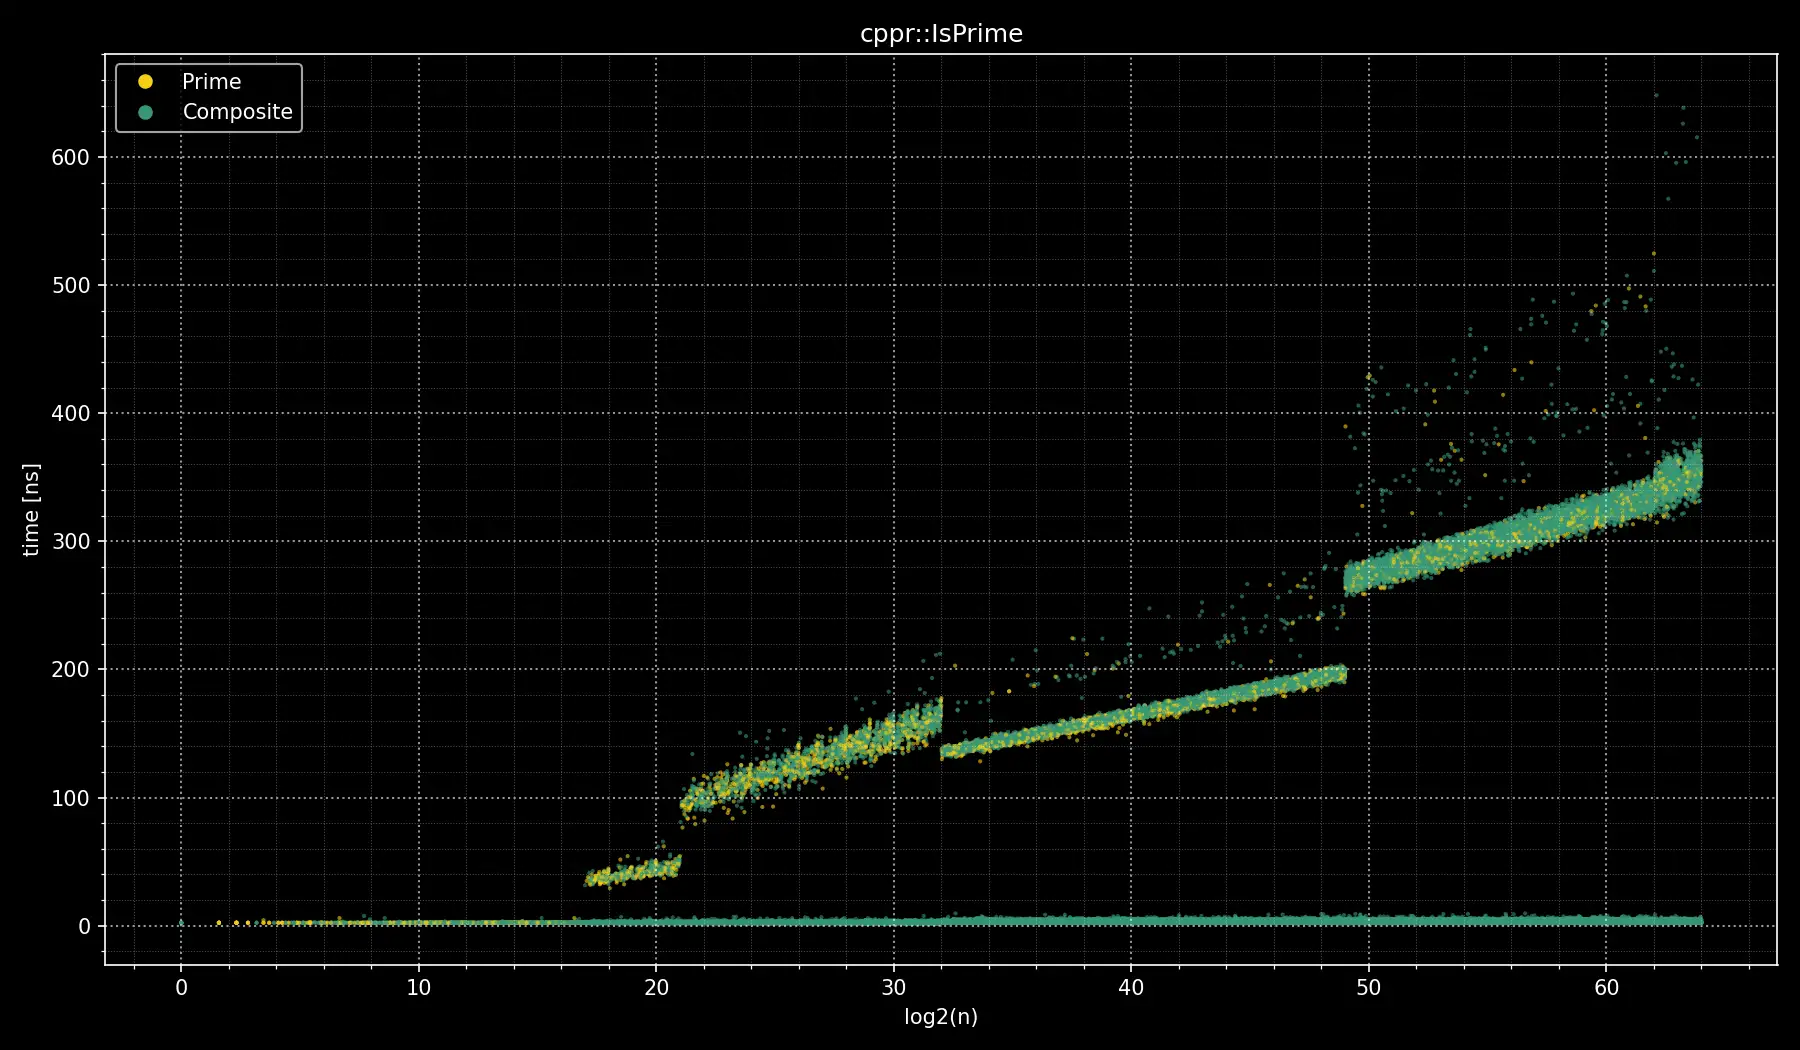
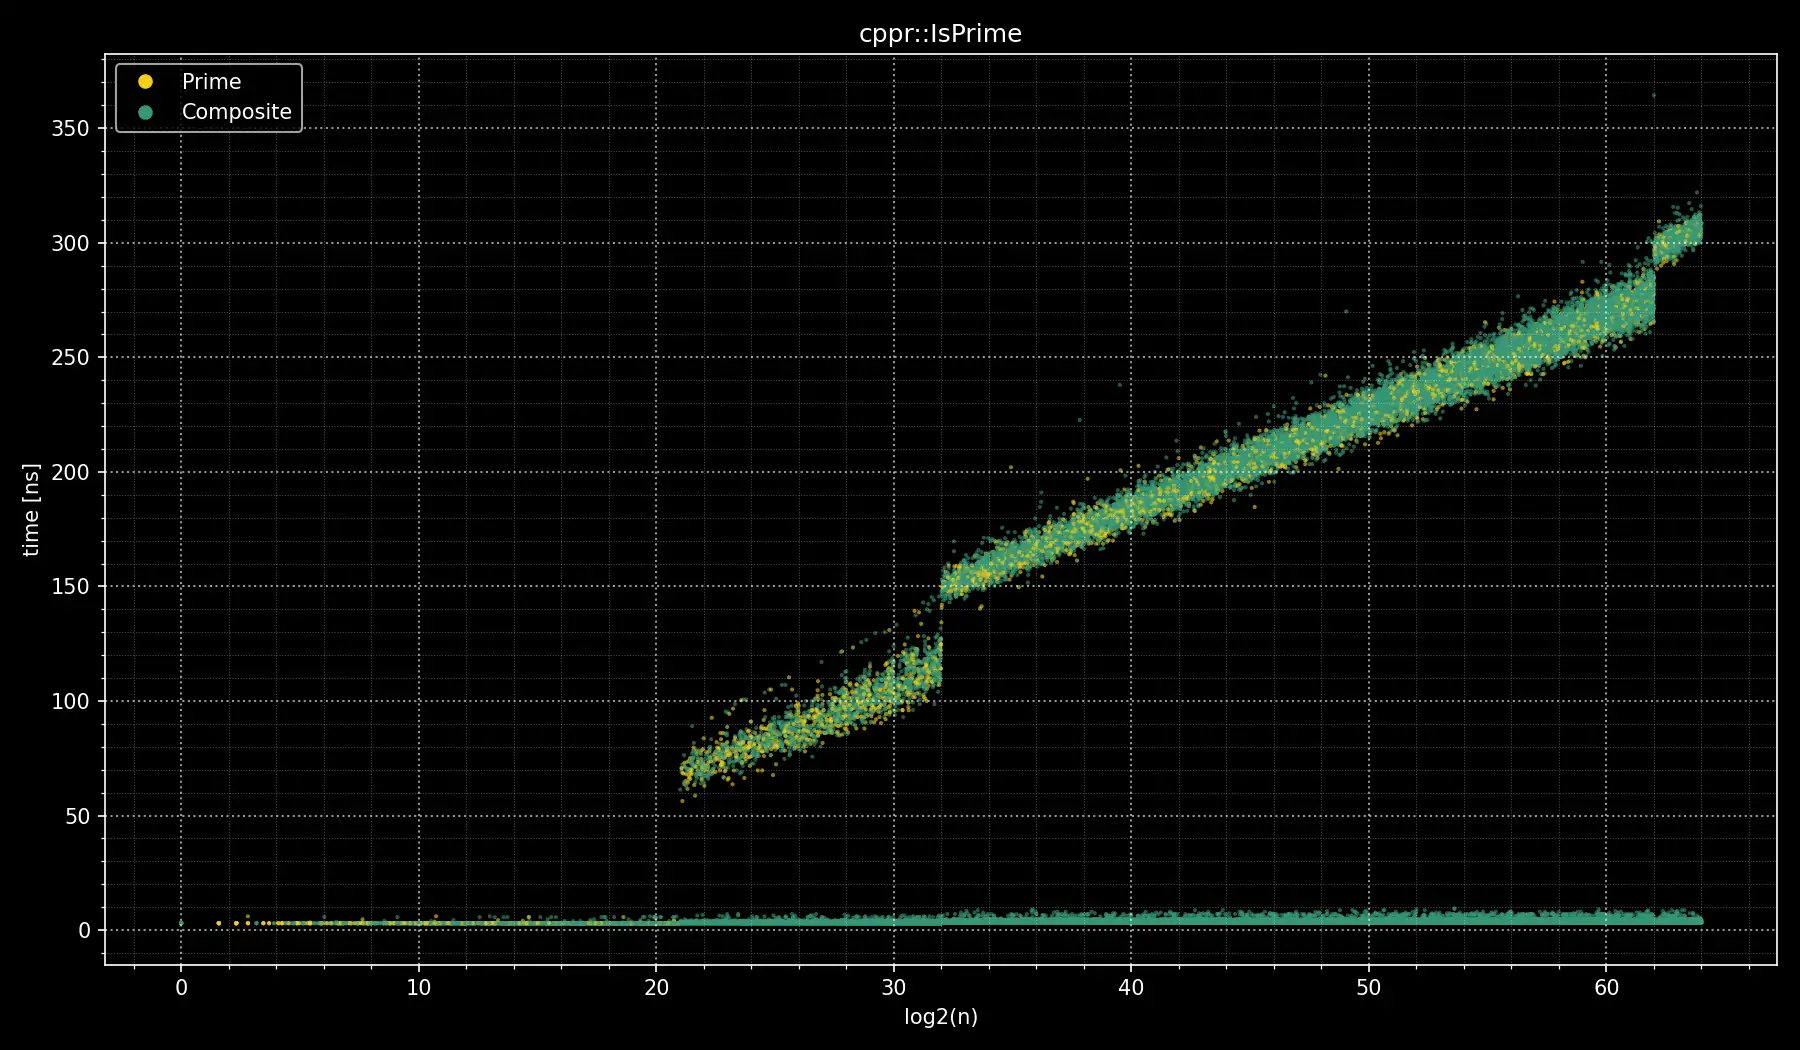
chore(bench): publish run 37210434675 878cdb1699bddf1f9dfba329e8ac427fae53476a

diff --git a/benchmarks/latest/benchmark-Linux-clang/bench_summary.md b/benchmarks/latest/benchmark-Linux-clang/bench_summary.md
@@ -2,19 +2,19 @@
 
 ## Overall summary
 
-- IsPrime averages 156.21 ns on prime inputs and 51.40 ns on composite inputs.
-- IsPrimeCompact averages 271.13 ns on prime inputs and 50.62 ns on composite inputs.
+- IsPrime averages 120.30 ns on prime inputs and 40.05 ns on composite inputs.
+- IsPrimeCompact averages 239.88 ns on prime inputs and 45.09 ns on composite inputs.
 
 ## Averages by 8-bit range (nanoseconds)
 
 | Bit range | IsPrime (prime) | IsPrimeCompact (prime) | IsPrime (composite) | IsPrimeCompact (composite) |
 |-----------|-----------------|------------------------|---------------------|----------------------------|
-| 1-8 | 2.12 | 2.47 | 2.11 | 2.47 |
-| 9-16 | 2.10 | 21.23 | 2.11 | 4.98 |
-| 17-24 | 62.43 | 72.02 | 15.52 | 18.02 |
-| 25-32 | 109.05 | 108.94 | 29.60 | 29.74 |
-| 33-40 | 176.48 | 265.08 | 55.68 | 71.17 |
-| 41-48 | 211.71 | 441.86 | 68.83 | 72.85 |
-| 49-56 | 302.57 | 560.79 | 101.09 | 87.46 |
-| 57-62 | 348.15 | 630.20 | 118.67 | 99.47 |
-| 63-64 | 411.53 | 761.51 | 139.74 | 126.53 |
+| 1-8 | 1.93 | 2.28 | 1.90 | 2.27 |
+| 9-16 | 1.91 | 21.08 | 1.91 | 4.84 |
+| 17-24 | 28.94 | 66.74 | 8.10 | 16.96 |
+| 25-32 | 96.33 | 97.08 | 26.45 | 26.76 |
+| 33-40 | 155.83 | 234.13 | 49.46 | 63.23 |
+| 41-48 | 186.75 | 389.06 | 61.08 | 64.55 |
+| 49-56 | 218.16 | 494.37 | 73.58 | 77.41 |
+| 57-62 | 245.09 | 554.93 | 84.12 | 87.94 |
+| 63-64 | 295.78 | 673.70 | 100.99 | 112.33 |

diff --git a/benchmarks/latest/benchmark-Windows-msvc/bench_summary.md b/benchmarks/latest/benchmark-Windows-msvc/bench_summary.md
@@ -2,19 +2,19 @@
 
 ## Overall summary
 
-- IsPrime averages 155.79 ns on prime inputs and 51.21 ns on composite inputs.
-- IsPrimeCompact averages 284.72 ns on prime inputs and 50.92 ns on composite inputs.
+- IsPrime averages 110.40 ns on prime inputs and 36.22 ns on composite inputs.
+- IsPrimeCompact averages 221.14 ns on prime inputs and 40.22 ns on composite inputs.
 
 ## Averages by 8-bit range (nanoseconds)
 
 | Bit range | IsPrime (prime) | IsPrimeCompact (prime) | IsPrime (composite) | IsPrimeCompact (composite) |
 |-----------|-----------------|------------------------|---------------------|----------------------------|
-| 1-8 | 2.27 | 2.01 | 2.02 | 2.00 |
-| 9-16 | 2.22 | 22.85 | 2.01 | 4.27 |
-| 17-24 | 61.75 | 69.23 | 15.67 | 16.72 |
-| 25-32 | 109.33 | 109.24 | 30.20 | 29.18 |
-| 33-40 | 181.69 | 277.85 | 57.29 | 72.68 |
-| 41-48 | 218.38 | 472.57 | 70.94 | 74.69 |
-| 49-56 | 300.30 | 607.81 | 100.20 | 90.87 |
-| 57-62 | 345.60 | 685.06 | 117.22 | 104.08 |
-| 63-64 | 367.88 | 668.37 | 124.68 | 106.59 |
+| 1-8 | 1.72 | 1.35 | 1.45 | 1.36 |
+| 9-16 | 1.70 | 17.69 | 1.40 | 3.83 |
+| 17-24 | 25.37 | 53.73 | 6.76 | 13.68 |
+| 25-32 | 84.94 | 84.93 | 22.92 | 23.37 |
+| 33-40 | 145.24 | 215.22 | 45.29 | 57.31 |
+| 41-48 | 174.67 | 367.28 | 56.27 | 58.87 |
+| 49-56 | 204.21 | 472.13 | 68.15 | 71.44 |
+| 57-62 | 229.80 | 532.40 | 78.11 | 81.70 |
+| 63-64 | 237.59 | 520.01 | 80.93 | 83.62 |

diff --git a/benchmarks/latest/benchmark-Windows-clang-cl/bench_summary.md b/benchmarks/latest/benchmark-Windows-clang-cl/bench_summary.md
@@ -2,19 +2,19 @@
 
 ## Overall summary
 
-- IsPrime averages 144.46 ns on prime inputs and 47.30 ns on composite inputs.
-- IsPrimeCompact averages 234.19 ns on prime inputs and 44.65 ns on composite inputs.
+- IsPrime averages 127.98 ns on prime inputs and 43.00 ns on composite inputs.
+- IsPrimeCompact averages 252.64 ns on prime inputs and 47.10 ns on composite inputs.
 
 ## Averages by 8-bit range (nanoseconds)
 
 | Bit range | IsPrime (prime) | IsPrimeCompact (prime) | IsPrime (composite) | IsPrimeCompact (composite) |
 |-----------|-----------------|------------------------|---------------------|----------------------------|
-| 1-8 | 2.41 | 1.43 | 2.39 | 1.34 |
-| 9-16 | 2.35 | 17.68 | 2.36 | 3.40 |
-| 17-24 | 60.08 | 64.22 | 15.06 | 15.37 |
-| 25-32 | 137.99 | 139.89 | 36.93 | 36.45 |
-| 33-40 | 150.22 | 223.19 | 47.53 | 59.63 |
-| 41-48 | 179.50 | 380.37 | 58.62 | 63.78 |
-| 49-56 | 276.93 | 469.47 | 92.49 | 76.42 |
-| 57-62 | 321.98 | 525.58 | 109.34 | 86.78 |
-| 63-64 | 348.03 | 615.99 | 119.21 | 99.67 |
+| 1-8 | 3.04 | 1.85 | 3.02 | 1.80 |
+| 9-16 | 3.03 | 19.61 | 3.04 | 3.96 |
+| 17-24 | 30.03 | 61.15 | 9.02 | 15.00 |
+| 25-32 | 97.95 | 96.64 | 27.17 | 25.97 |
+| 33-40 | 166.73 | 249.17 | 53.09 | 66.30 |
+| 41-48 | 200.25 | 420.48 | 65.61 | 69.66 |
+| 49-56 | 234.11 | 528.53 | 79.22 | 83.80 |
+| 57-62 | 263.54 | 593.43 | 90.67 | 95.35 |
+| 63-64 | 301.77 | 669.09 | 103.29 | 109.85 |

diff --git a/benchmarks/latest/benchmark-Linux-gcc/bench_summary.md b/benchmarks/latest/benchmark-Linux-gcc/bench_summary.md
@@ -2,19 +2,19 @@
 
 ## Overall summary
 
-- IsPrime averages 137.53 ns on prime inputs and 45.58 ns on composite inputs.
-- IsPrimeCompact averages 241.07 ns on prime inputs and 45.36 ns on composite inputs.
+- IsPrime averages 120.31 ns on prime inputs and 40.04 ns on composite inputs.
+- IsPrimeCompact averages 239.89 ns on prime inputs and 45.06 ns on composite inputs.
 
 ## Averages by 8-bit range (nanoseconds)
 
 | Bit range | IsPrime (prime) | IsPrimeCompact (prime) | IsPrime (composite) | IsPrimeCompact (composite) |
 |-----------|-----------------|------------------------|---------------------|----------------------------|
-| 1-8 | 1.90 | 2.28 | 1.91 | 2.25 |
-| 9-16 | 1.90 | 21.13 | 1.90 | 4.70 |
-| 17-24 | 55.99 | 66.60 | 14.19 | 16.79 |
-| 25-32 | 96.63 | 97.16 | 26.55 | 26.63 |
-| 33-40 | 153.04 | 235.15 | 48.85 | 63.31 |
-| 41-48 | 183.40 | 392.95 | 60.18 | 65.39 |
-| 49-56 | 267.03 | 497.23 | 89.63 | 78.42 |
-| 57-62 | 307.92 | 558.19 | 105.31 | 89.13 |
-| 63-64 | 369.90 | 670.16 | 126.08 | 111.05 |
+| 1-8 | 1.90 | 2.25 | 1.90 | 2.26 |
+| 9-16 | 1.90 | 21.08 | 1.90 | 4.79 |
+| 17-24 | 28.93 | 66.69 | 8.09 | 16.91 |
+| 25-32 | 96.37 | 97.16 | 26.47 | 26.73 |
+| 33-40 | 155.79 | 234.12 | 49.46 | 63.21 |
+| 41-48 | 186.79 | 389.00 | 61.07 | 64.53 |
+| 49-56 | 218.17 | 494.38 | 73.57 | 77.38 |
+| 57-62 | 245.19 | 555.00 | 84.11 | 87.92 |
+| 63-64 | 295.86 | 673.80 | 100.98 | 112.32 |
